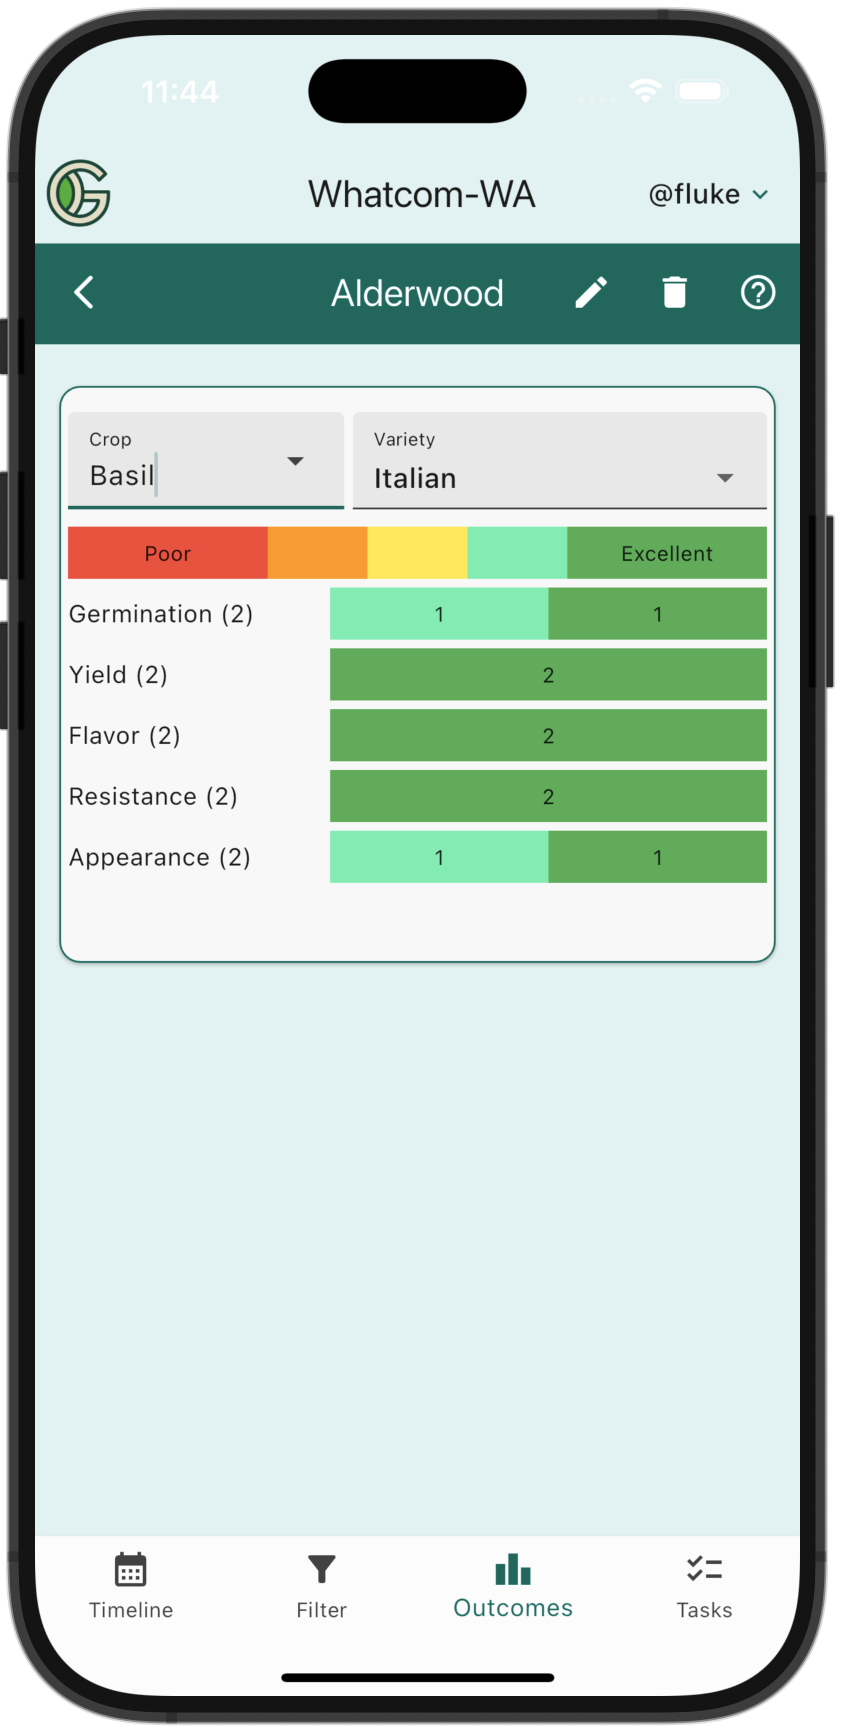
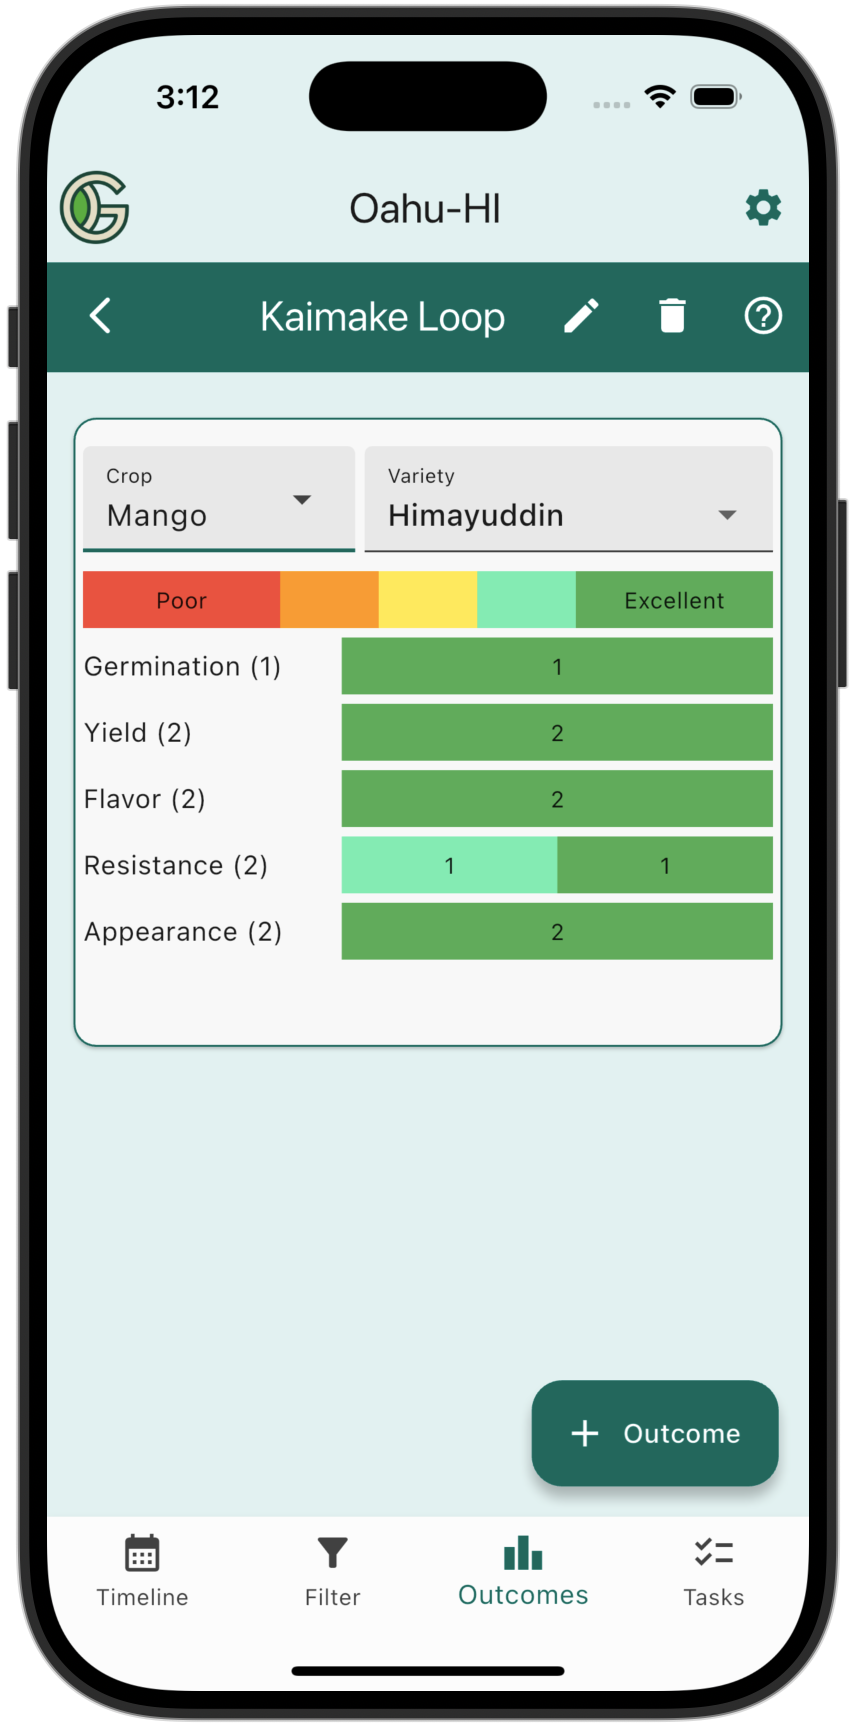
updates for tasks and outcomes

Changed region(s): [[0.0, 0.0, 0.9823, 1.0]]

diff --git a/docs/user-guide/outcomes.md b/docs/user-guide/outcomes.md
@@ -7,13 +7,15 @@ hide_table_of_contents: false
 :::tip How (and why) to record outcomes
 :::
 
-If you want to get better at gardening (or anything else), one of the most important things you can do is keep track of what worked and what didn't work.
+If you want to get better at gardening (or anything else), one of the best things you can do is keep track of what worked and what didn't.
 
-In the case of gardening, it's helpful to keep track of whether a Planting "worked" or "didn't work". If the Planting worked, you'd like to remember that and repeat your success in the next season. If it didn't work, then you might want to make changes: maybe change the Variety, maybe plant it earlier or later, or something else.  
+In the case of gardening, it's helpful to record whether a Planting worked or not. If a Planting worked, it's good to record that so you can repeat your success in the next season. If it didn't work, then you might want to make changes next time: maybe change the Variety, maybe plant it earlier or later, or something else.  
 
-Recording whether a Planting worked or didn't work is not only helpful for improving your own garden, it is also helpful to other gardeners in your Chapter. For example, say you want to plant Corn, and you've never done it before. Rather than start from scratch and guess at the Variety and planting dates, you can search the Chapter data for a Corn Planting that "worked" for another Gardener in your Chapter, and then [copy that Planting](plantings.md#copy-a-planting) into your own Garden.  
+Recording whether a Planting worked or not is not only helpful for improving your own garden, it can also be helpful to other gardeners in your Chapter. 
 
-GeoGardenClub provides Outcomes as a systematic way for gardeners to record what worked and what didn't work for a given Planting. There are five types of outcomes: germination, yield, flavor, pest/disease resilience, and appearance. 
+For example, say you want to plant Corn, and you've never done it before. Rather than start from scratch and guess at the Variety and planting dates, you can search the Chapter data for a Corn Planting that "worked" for another Gardener in your Chapter, and then [copy that Planting](plantings.md#copy-a-planting) into your own Garden.  
+
+GeoGardenClub provides Outcomes as a systematic way for gardeners to record what worked and what didn't work for a Planting. There are five types of outcomes: germination, yield, flavor, pest/disease resilience, and appearance.
 
 You can grade each Planting on a scale of 1 (worst) to 5 (best) for any of these Outcome types. A score of 0 means there is no rating for that outcome type.  For example, if you had poor Germination you may not have a rating for Flavor.
 
@@ -31,7 +33,7 @@ The Garden Details view for a Garden provides an Outcomes view in the bottom nav
 
 <img width="300" src="/img/user-guide/outcomes-garden-details.png"/>
 
-In this case, you can see that the Gardener recorded Outcomes for two plantings of Italian Basil, and both worked out pretty well. 
+In this case, you can see that the Gardener recorded Outcomes for two plantings of a Himayuddin Mango, and both worked out pretty well. 
 
 ### ... for the entire Chapter
 
@@ -41,12 +43,35 @@ Another way to view Outcomes is by going to the Crops or Varieties screens from 
 
 ## Manage Outcomes
 
-To record or change one or more Outcomes for a given Planting, you must bring up the Update Planting screen. To do that, follow the instructions for [Updating a Planting](plantings.md#update-a-planting). 
+There are two ways to manage Outcome data. 
+
+### ...from the Outcomes view
+
+First, if you go to the Outcomes view of the Garden Details screen, you'll see a "+ Outcome" button:
+
+<img width="300" src="/img/user-guide/outcomes-garden-details.png"/>
+
+Tap the "+ Outcome" button to go to the Create Outcome screen:
+
+<img width="300" src="/img/user-guide/outcomes-create-outcome.png"/>
+
+Specify the Crop, Variety, Bed, and Planting Start Date, at which point the Outcome sliders will appear. If there are previously recorded Outcome values, the sliders will be set to them:
+
+<img width="300" src="/img/user-guide/outcomes-create-outcome-2.png"/>
+
+After updating the Outcome values, scroll down and tap the Submit button to save them. The Outcomes view will be updated immediately:
+
+<img width="300" src="/img/user-guide/outcomes-create-outcome-3.png"/>
+
+
+### ...from Update Planting
+
+A second way manage Outcome data is through the Update Planting screen. To do that, follow the instructions for [Updating a Planting](plantings.md#update-a-planting). 
 
 Once the Update Planting screen is displayed, you can scroll down to find sliders that enable you to record (and change) the rating associated with any of the five outcomes:
 
 <img width="300" src="/img/user-guide/outcomes-update-planting.png"/>
 
-In this case, the Gardener provided a rating of 5 for Germination, 4 for Resistance, 3 for Flavor, 2 for Yield, and no rating for Appearance.
+## Delete Outcome data
 
-To "delete" an Outcome, just change its rating to 0.
+To "delete" an Outcome, just change its rating to 0, which indicates that there is no data regarding that outcome.

diff --git a/docs/user-guide/observations.md b/docs/user-guide/observations.md
@@ -11,14 +11,13 @@ Gaining insight into your gardening practice usually requires more than just rec
 
 You might want to record what the plant looked like when it germinated, or the appearance of the harvest, or a particular pest that appeared at some point in the season.  Or you might simply want to capture a picture of a particularly beautiful moment in your garden.  Observations let you collect data about all of these things and more.  
 
-Observations can be public or private. A public Observation can be seen by anyone in your Chapter. A private Observation can only be seen by you. 
-
+Observations can be public or private. A public Observation can be seen by any gardener. A private Observation can only be seen by you. 
 
 ## Viewing observations
 
 ### ... for the Chapter
 
-To see all of your Observations, as well as the public Observations by everyone else in your Chapter, tap the "Observations" icon in the bottom nav bar of your Home screen:
+To see all of your Observations, as well as the public Observations by other gardeners in your Chapter, tap the "Observations" icon in the bottom nav bar of your Home screen:
 
 <img width="300" src="/img/user-guide/observations-view.png"/>
 
@@ -26,7 +25,7 @@ Observation are listed in reverse chronological order, so the most recent Observ
 
 ### ... for a Planting
 
-You can see the Observations associated with a Planting by going to its Planting Details screen. For example:
+To see just the observations associated with a single Planting, go to its Planting Details screen. For example:
 
 <img width="300" src="/img/user-guide/planting-details.png"/>
 
@@ -46,13 +45,11 @@ You can further filter what is displayed by selecting a Crop, Variety, Gardener,
 
 To reset the display to show all Observations, tap the Filter icon to hide the Observation Filter controller. 
 
-## Create an Observation
+## Create Observation
 
-Observations can be made about Gardens, Beds, Crops, Varieties, or Plantings. 
+Observations can be made about Gardens, Beds, Crops, Varieties, or Plantings.
 
-### ... for a Garden, Bed, Crop, or Variety
-
-To create an Observation for anything other than a Planting, go to the Observations view of your Home Screen:
+To create an Observation, go to the Observations view of your Home Screen:
 
 <img width="300" src="/img/user-guide/observations-view.png"/>
 
@@ -62,7 +59,7 @@ Now tap the "+ Observation" button to go to the Create Observation screen:
 
 Fill out the form as follows:
 
-**Observation Type:** Select the observation type: Garden, Bed, Crop, or Variety .  If the observation is for a Planting, navigate to the planting details card to create an observation (instructions below).
+**Observation Type:** Select the observation type: Garden, Bed, Crop, Variety, or Planting.  Note that the Planting Observation Type will only appear if the selected Garden has at least one Planting in it. Also note that if you select Bed, Crop, Variety, or Planting, additional selectors will appear in the form. 
 
 **Garden:** Select the garden the observation is for.
 
@@ -78,33 +75,7 @@ Fill out the form as follows:
 
 Tap "Submit" to define the Observation.
 
-### ... for a Planting
-
-To create an Observation for a Planting, go to its Planting Details screen and tap the "+" button to reveal the "+ Observation" button:
-
-<img width="300" src="/img/user-guide/observations-create-planting-1.png"/>
-
-Now tap the "+ Observation" button to bring up the Create Observation screen for a Planting:
-
-<img width="300" src="/img/user-guide/observations-create-planting-2.png"/>
-
-Note that when creating an Observation for a Planting, the Observation Type, Garden, Bed, Crop, and Variety are filled in for you and cannot be changed.
-
-Fill out the form as follows:
-
-**Picture:** Tap the camera icon to take a picture of the planting or tap the gallery icon to select a picture from your device's gallery.
-
-**Description:**  Describe the observation.  What is happening?  Do you have theories or questions other gardeners might be able to help with?
-
-**Observation Date:** If you are adding an observation for a date other than today, tap the date to select a different date.
-
-**Tags:** Add tags to make your observation easily filterable.  Tags are also important if you want that observation to satisfy a requirement of a badge.  For more on badges, see the [Badges](/docs/user-guide/badges) section.
-
-**Is this a private observation?** If you don't want other Gardeners to see your observation, check this box.
-
-Tap "Submit" to define the Observation.
-
-## Update an Observation
+## Update Observation
 
 To update an existing Observation, tap the "three dot" menu associated with the Observation to display "Update Observation" or "Delete Observation":
 
@@ -118,7 +89,7 @@ The fields that you can edit will vary depending upon the Observation type.
 
 When you are done, tap "Submit" (not shown above, you would need to scroll to see it) to update the Observation.
 
-## Delete an Observation
+## Delete Observation
 
 To delete an Observation, tap the "three dot" menu associated with the Observation to display "Update Observation" or "Delete Observation":
 

diff --git a/docs/user-guide/tasks.md b/docs/user-guide/tasks.md
@@ -35,7 +35,7 @@ Tasks are always associated with a Planting. Task can be created automatically o
 
 *Automatically created Tasks:* Whenever you define a Planting date (such as Start, Transplant, First Harvest, Last Harvest, or Pull date), a Task with the associated date is automatically created for you.
 
-*Manually created Tasks:* If you want to create additional Tasks for a Planting, you can do that manually. To do that, go to the Tasks view (in either your Home screen or Garden Details screen) and click the "+ Task" button:
+*Manually created Tasks:* If you want to create additional Tasks for a Planting, you can do that manually. To do that, go to the Tasks view (in either your Home Tasks view or Garden Details Tasks view) where you'll see a "+ Task" button:
 
 <img width="300" src="/img/user-guide/tasks-view-home-screen.png"/>
 
@@ -57,7 +57,7 @@ Note that the Planting crop and variety are automatically added to the title fie
 :::info Can I create Tasks that are associated with Beds or Gardens? 
 Unfortunately, not yet, but this is planned for the future.  Currently, all Tasks have to be associated with a single Planting. 
 
-As a workaround, you can create a Task that is associated with a single Planting, and then note in the Description field that the Task should actually be performed across the entire Bed (or Garden). 
+As a temporary workaround, you can create a Task that is associated with a single Planting, and then note in the Description field that the Task should actually be performed across the entire Bed (or Garden). 
 :::
 
 ## Update a Task
